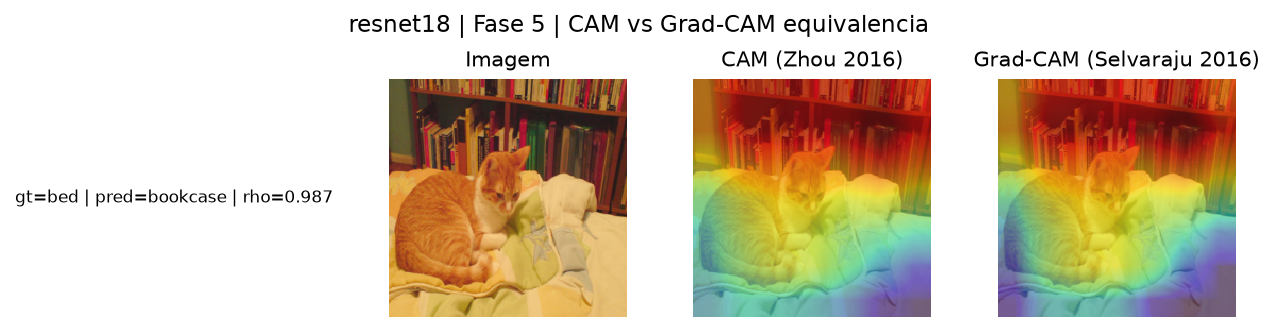
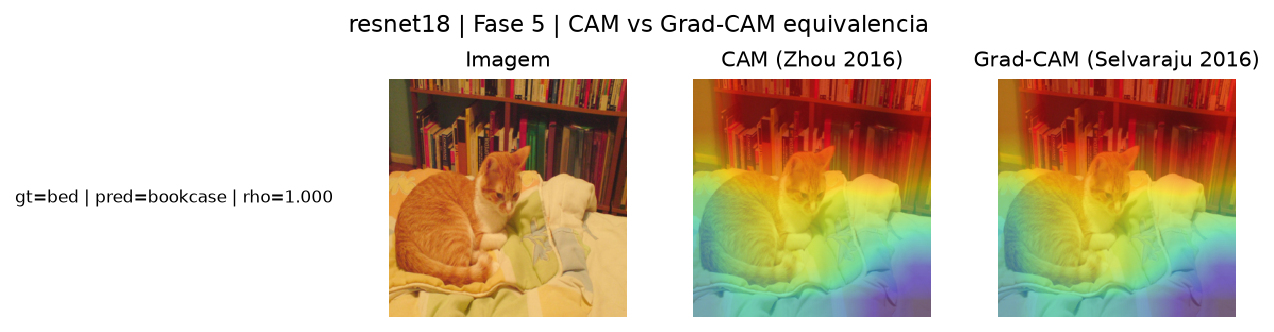
fix(fase 5): compara CAM e Grad-CAM na mesma camada
cam() usa a saida do bloco (layer4); o layer=None do gradcam cai na ultima Conv2d (layer4[-1].conv2), antes do BatchNorm e da soma residual. Comparar tensores diferentes dava rho 0,987 e diferenca de 6,1 numa escala de 30 -- plausivel, e errado.

Com a camada resolvida uma vez (resolve_cam_layers), Z * Grad-CAM = CAM ate o ponto flutuante: rho 1,000000, max abs diff 5,7e-06. Figura e JSON regenerados no caso 61333 (bookcase), o mesmo do artefato ja commitado.

diff --git a/scripts/05_cam_vs_gradcam.py b/scripts/05_cam_vs_gradcam.py
@@ -23,7 +23,7 @@ sys.path.insert(0, str(Path(__file__).resolve().parent.parent))
 
 import torch
 
-from gradcam.core import cam, gradcam
+from gradcam.core import cam, gradcam, resolve_cam_layers
 from gradcam.data import CocoVal
 from gradcam.metrics import spearman
 from gradcam.models import (
@@ -77,9 +77,15 @@ def main() -> int:
         indices, _ = predict(model, x, topk=1)
         class_idx = int(indices[0])
 
-    # Computa CAM e Grad-CAM
-    cam_map, _ = cam(model, x, class_idx=class_idx)
-    gc_map, _ = gradcam(model, x, class_idx=class_idx)
+    # Computa CAM e Grad-CAM na MESMA ativacao. Isto importa: `cam` usa a saida
+    # do bloco (`layer4`), enquanto o `layer=None` do `gradcam` cai na ultima
+    # `Conv2d` (`layer4[-1].conv2`, antes do BatchNorm e da soma residual).
+    # Comparar tensores diferentes da' rho ~0,987 e diferenca ~6 numa escala de
+    # 30 — plausivel o bastante para passar despercebido, e falso: no mesmo
+    # tensor, Z * Grad-CAM = CAM vale ate' o ponto flutuante.
+    layer, _ = resolve_cam_layers(model)
+    cam_map, _ = cam(model, x, class_idx=class_idx, layer=layer)
+    gc_map, _ = gradcam(model, x, class_idx=class_idx, layer=layer)
 
     # Equivalencia: Z * Grad-CAM = CAM
     Z = cam_map.numel() # ou H * W das ativacoes
